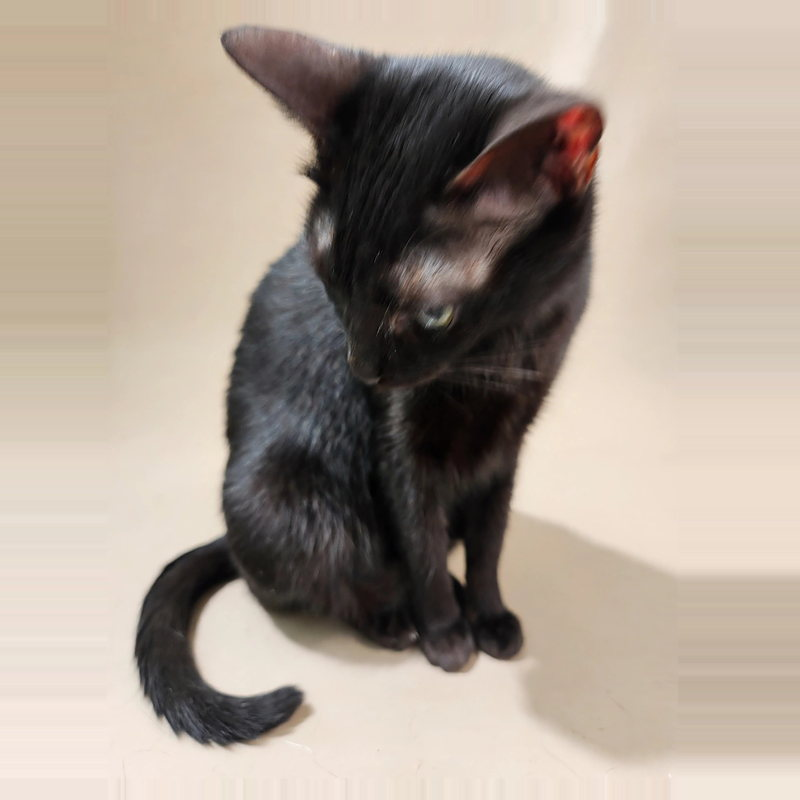
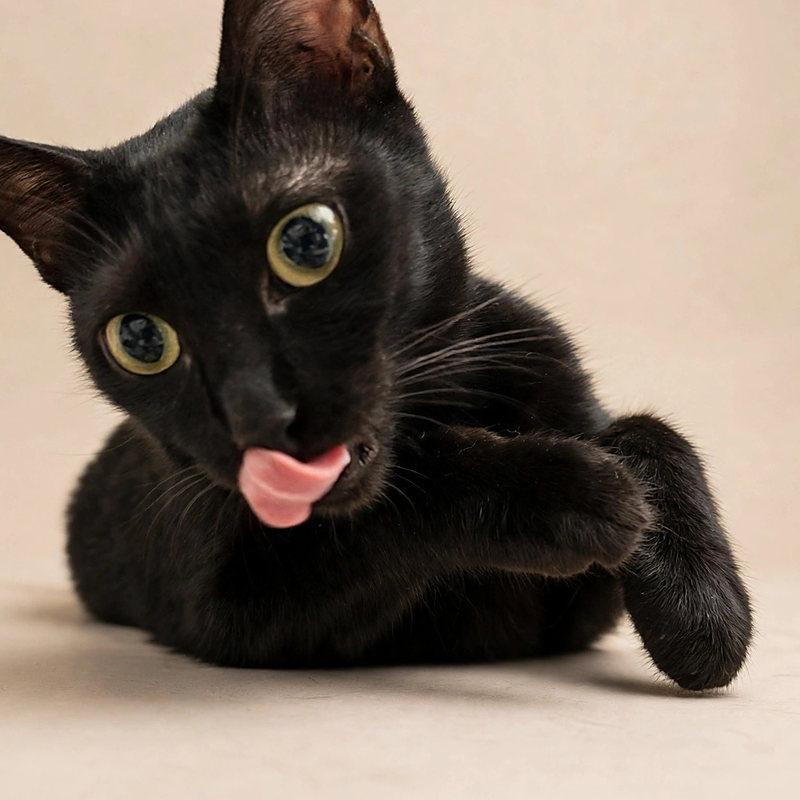
進寶換上新的沙龍照；素材 0846 的貓名改成巧克力
- 進寶原本三張都是側臉或背對，換成看得到臉的三張
  （舊的移到 _去背用/沙龍照/舊版/，沒有刪）
- 素材 0846 原本標成進寶，實際是巧克力，素材庫已同步
  （這張沒被網站用到，只是素材庫的資料更正）

diff --git a/assets/site.js b/assets/site.js
@@ -68,7 +68,7 @@ var HERO_V = '?v=998d7668';
 // 貓咪照片的版本號。照片換新的時候檔名不變（cream-1.jpg 永遠叫 cream-1.jpg），
 // 沒有版本號的話，看過的人會一直看到瀏覽器快取裡的舊圖。
 // 數字一樣由 tools/更新版本號.py 自動換掉。
-var PHOTO_V = '?v=c01c55af';
+var PHOTO_V = '?v=7f4d5025';
 // 手機版和電腦版的橫幅是兩張不同的圖，這裡記住現在是哪一種螢幕
 var heroWide = window.matchMedia('(min-width: 761px)');
 var _heroExt = null;

diff --git a/games.html b/games.html
@@ -120,6 +120,6 @@
 <script src="data/games.js?v=b3bd0108"></script>
 <script src="data/news.js?v=3a98b0ab"></script>
 <script src="data/tips.js?v=2b1c3511"></script>
-<script src="assets/site.js?v=a76481d3"></script>
+<script src="assets/site.js?v=a35dcd5c"></script>
 </body>
 </html>

diff --git a/index.html b/index.html
@@ -199,6 +199,6 @@
 <script src="data/news.js?v=3a98b0ab"></script>
 <script src="data/tips.js?v=2b1c3511"></script>
 <script src="data/games.js?v=b3bd0108"></script>
-<script src="assets/site.js?v=a76481d3"></script>
+<script src="assets/site.js?v=a35dcd5c"></script>
 </body>
 </html>

diff --git a/tips.html b/tips.html
@@ -114,6 +114,6 @@
 <script src="data/cats.js?v=46ec5e3e"></script>
 <script src="data/tips.js?v=2b1c3511"></script>
 <script src="data/games.js?v=b3bd0108"></script>
-<script src="assets/site.js?v=a76481d3"></script>
+<script src="assets/site.js?v=a35dcd5c"></script>
 </body>
 </html>

diff --git a/news.html b/news.html
@@ -108,6 +108,6 @@
 
 <script src="data/cats.js?v=46ec5e3e"></script>
 <script src="data/news.js?v=3a98b0ab"></script>
-<script src="assets/site.js?v=a76481d3"></script>
+<script src="assets/site.js?v=a35dcd5c"></script>
 </body>
 </html>

diff --git a/shop.html b/shop.html
@@ -112,6 +112,6 @@
 
 <script src="data/cats.js?v=46ec5e3e"></script>
 <script src="data/shop.js?v=f6c32ecd"></script>
-<script src="assets/site.js?v=a76481d3"></script>
+<script src="assets/site.js?v=a35dcd5c"></script>
 </body>
 </html>

diff --git a/tip.html b/tip.html
@@ -98,6 +98,6 @@
 
 <script src="data/cats.js?v=46ec5e3e"></script>
 <script src="data/tips.js?v=2b1c3511"></script>
-<script src="assets/site.js?v=a76481d3"></script>
+<script src="assets/site.js?v=a35dcd5c"></script>
 </body>
 </html>

diff --git a/about.html b/about.html
@@ -136,6 +136,6 @@
 </footer>
 
 <script src="data/cats.js?v=46ec5e3e"></script>
-<script src="assets/site.js?v=a76481d3"></script>
+<script src="assets/site.js?v=a35dcd5c"></script>
 </body>
 </html>

diff --git a/adopt.html b/adopt.html
@@ -165,6 +165,6 @@
 </footer>
 
 <script src="data/cats.js?v=46ec5e3e"></script>
-<script src="assets/site.js?v=a76481d3"></script>
+<script src="assets/site.js?v=a35dcd5c"></script>
 </body>
 </html>

diff --git a/adopted.html b/adopted.html
@@ -114,6 +114,6 @@
 </footer>
 
 <script src="data/cats.js?v=46ec5e3e"></script>
-<script src="assets/site.js?v=a76481d3"></script>
+<script src="assets/site.js?v=a35dcd5c"></script>
 </body>
 </html>

diff --git a/cats.html b/cats.html
@@ -129,6 +129,6 @@
 </footer>
 
 <script src="data/cats.js?v=46ec5e3e"></script>
-<script src="assets/site.js?v=a76481d3"></script>
+<script src="assets/site.js?v=a35dcd5c"></script>
 </body>
 </html>

diff --git a/support.html b/support.html
@@ -119,6 +119,6 @@
 </footer>
 
 <script src="data/cats.js?v=46ec5e3e"></script>
-<script src="assets/site.js?v=a76481d3"></script>
+<script src="assets/site.js?v=a35dcd5c"></script>
 </body>
 </html>
